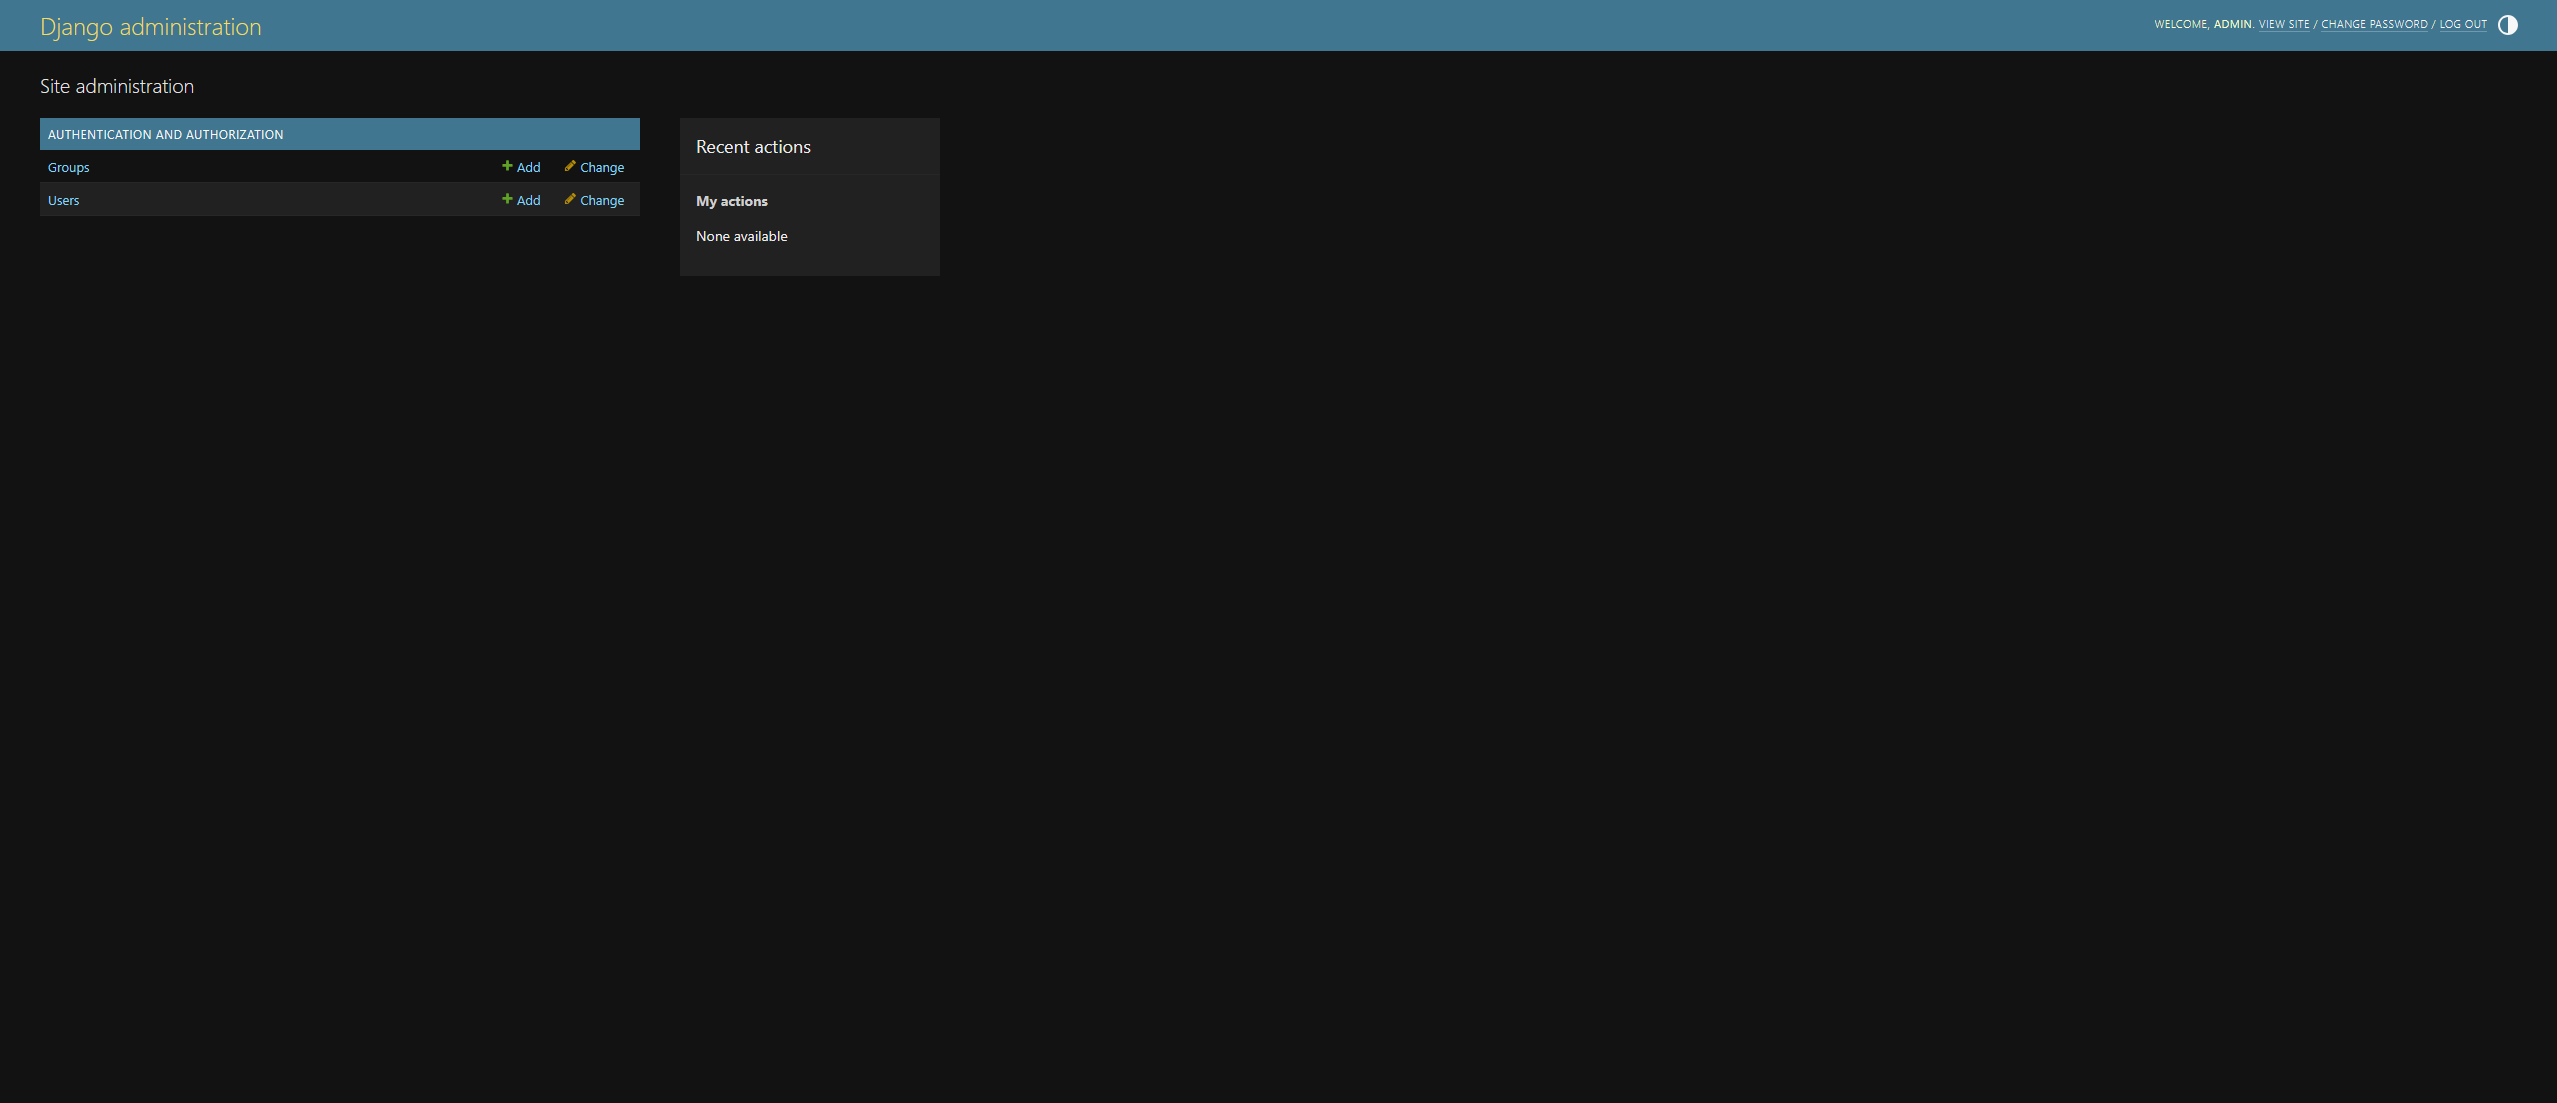
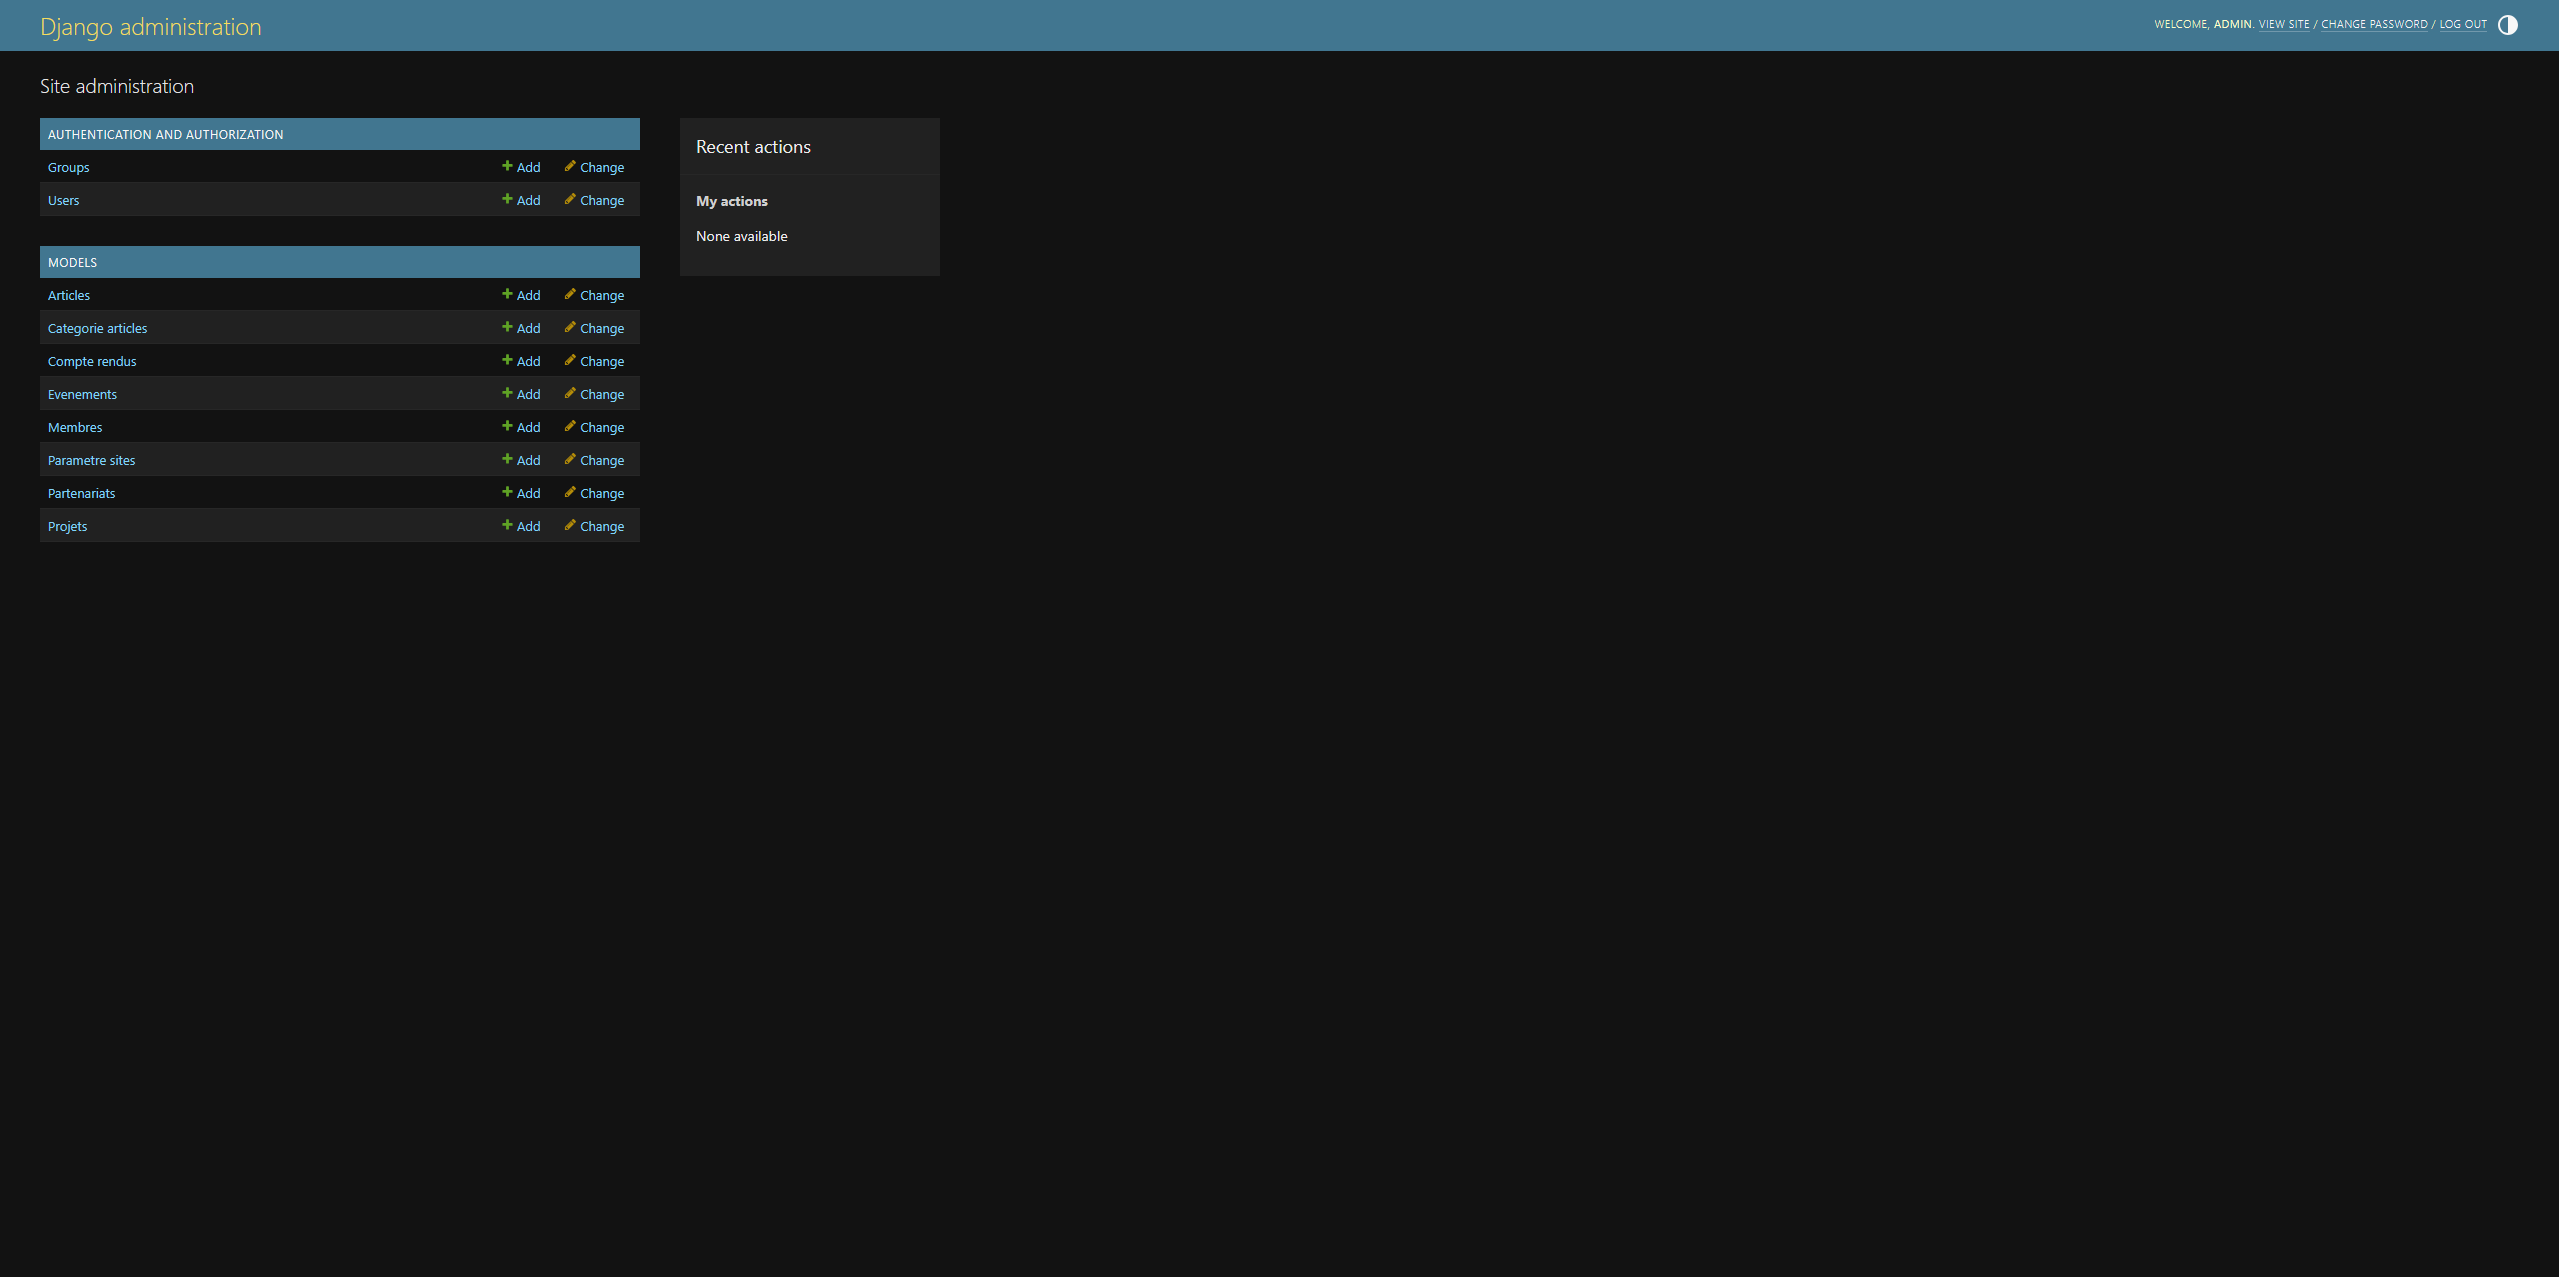
enhancements: register les modeles pour interface admin

Changed region(s): [[0.0, 0.0, 1.0, 0.4316], [0.0, 0.2466, 0.0618, 0.3699]]

diff --git a/backend/backend/models/admin.py b/backend/backend/models/admin.py
@@ -1,3 +1,12 @@
 from django.contrib import admin
+from backend.models import models
 
 # Register your models here.
+admin.site.register(models.Article)
+admin.site.register(models.Membre)
+admin.site.register(models.Evenement)
+admin.site.register(models.CompteRendu)
+admin.site.register(models.Projet)
+admin.site.register(models.Partenariat)
+admin.site.register(models.CategorieArticle)
+admin.site.register(models.ParametreSite)

diff --git a/backend/config/settings/base.py b/backend/config/settings/base.py
@@ -44,7 +44,6 @@ INSTALLED_APPS = [
     "corsheaders",
     "rest_framework",
     "drf_spectacular",
-    "rest_framework.authtoken",
 ]
 
 MIDDLEWARE = [